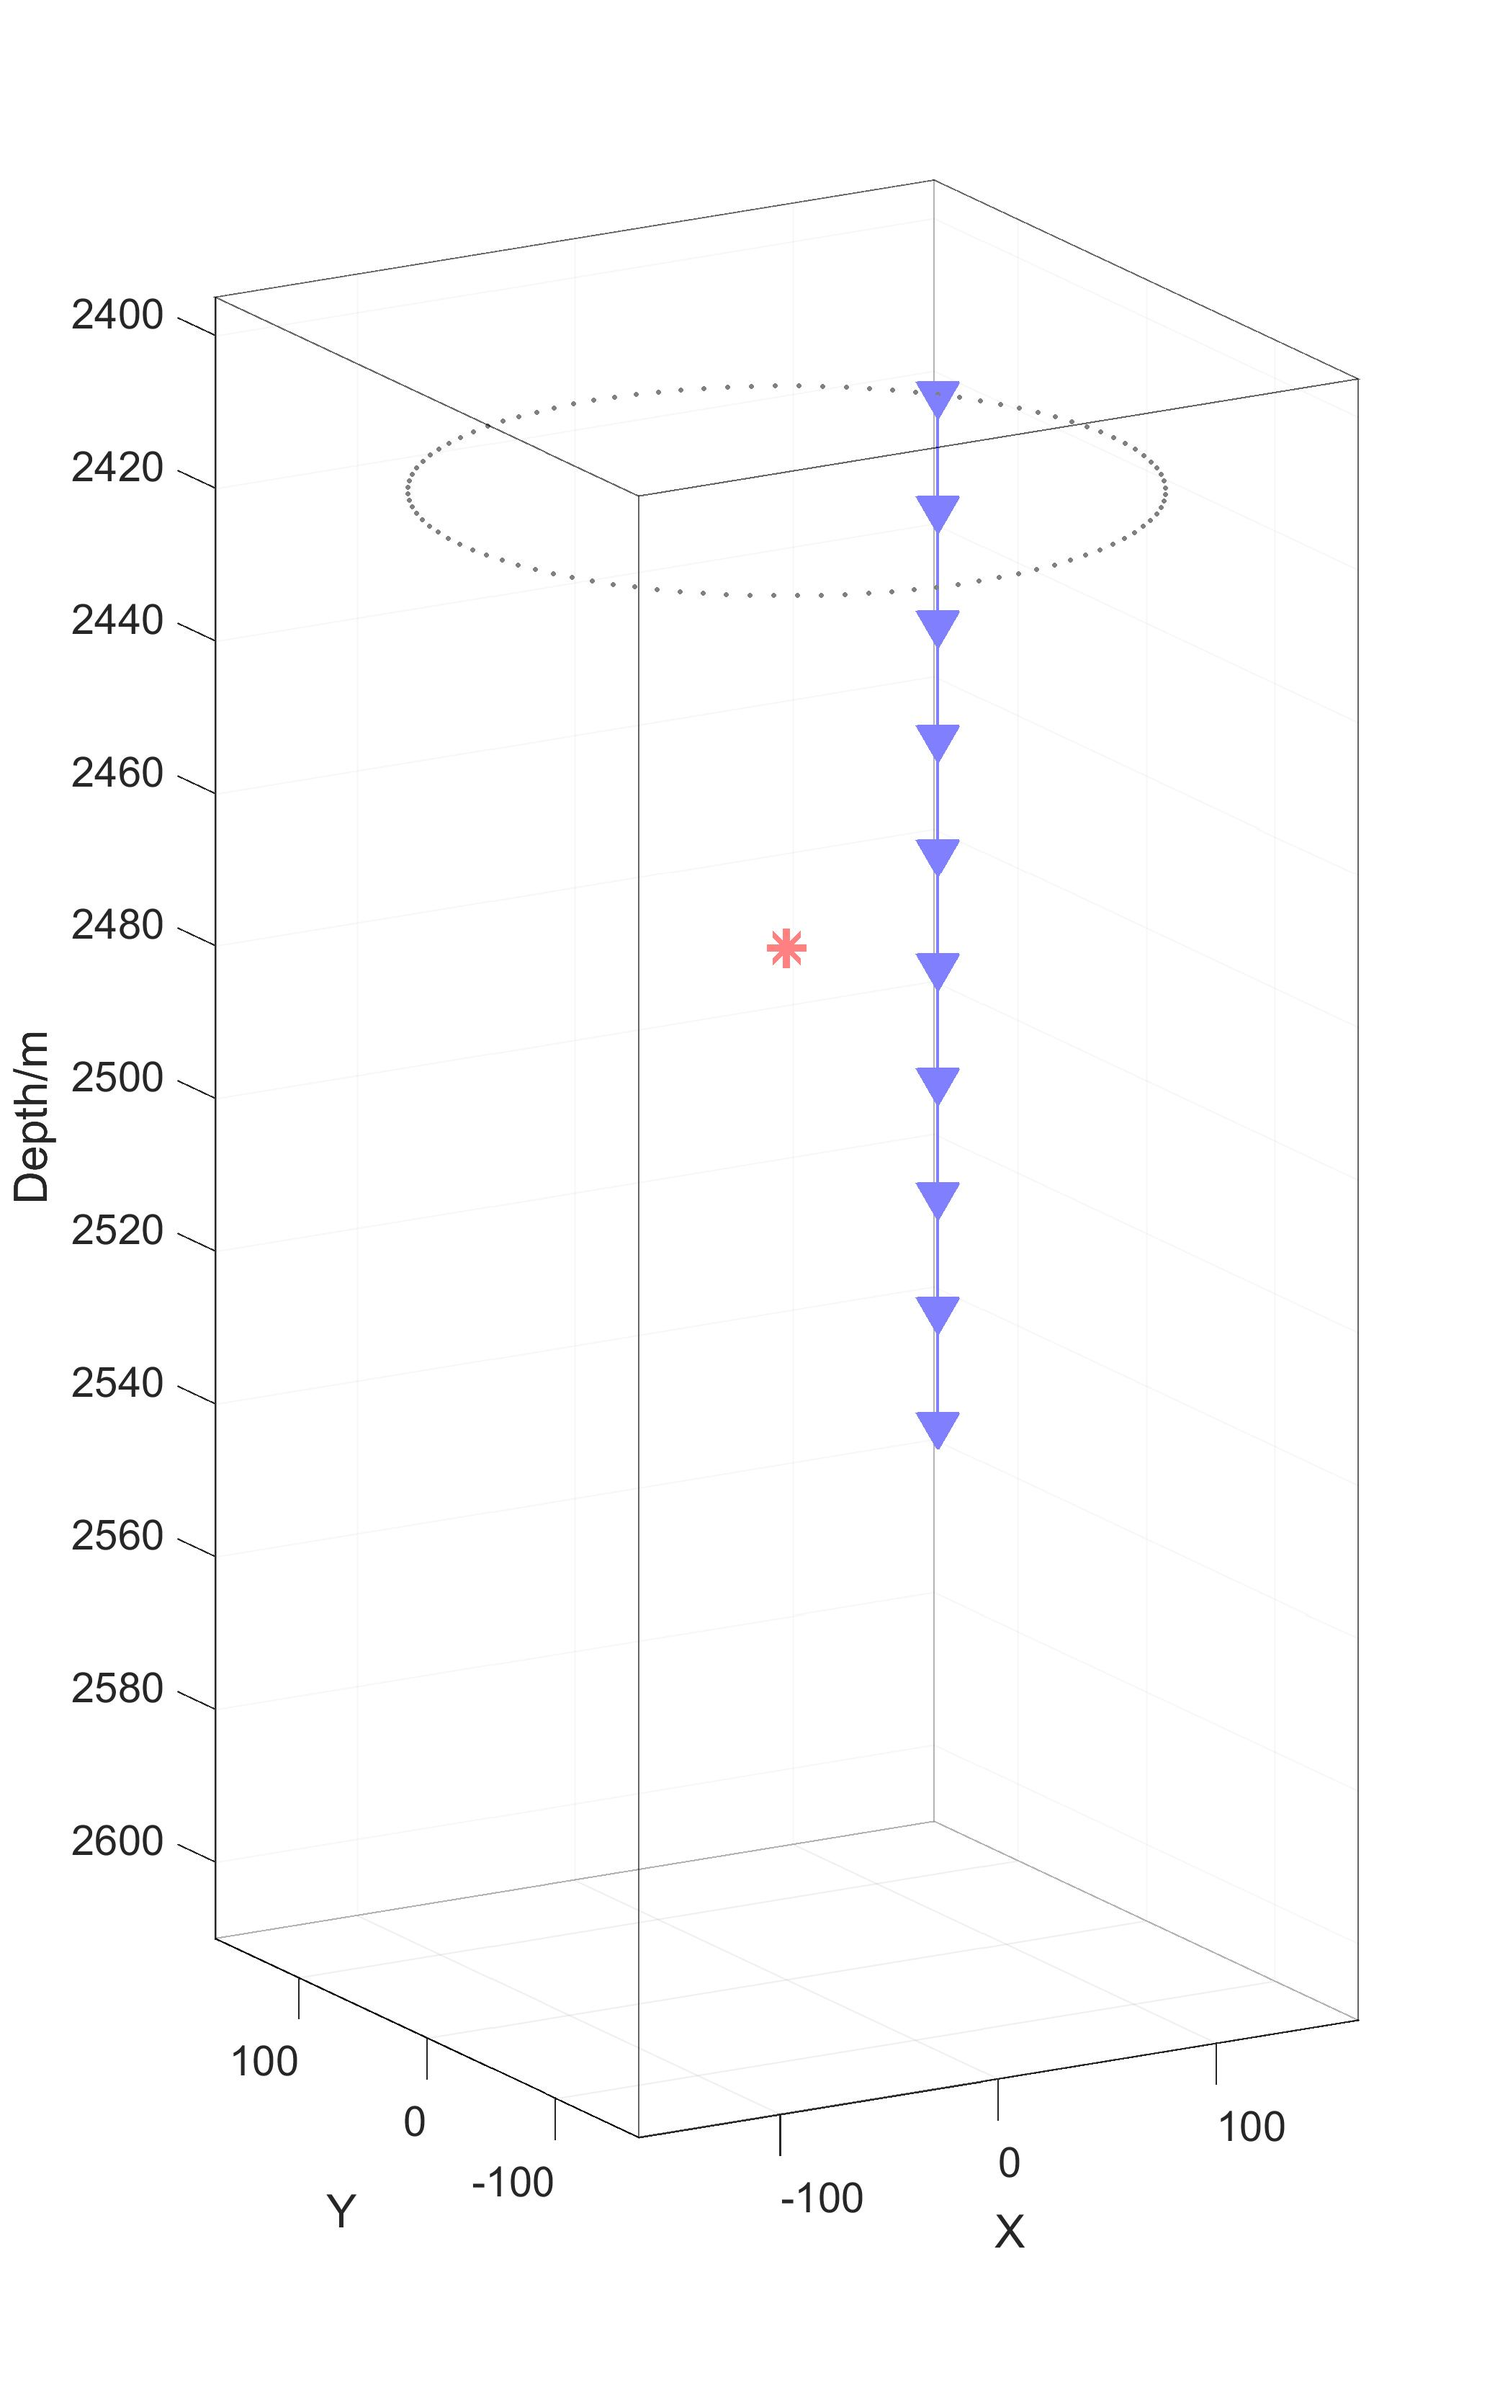
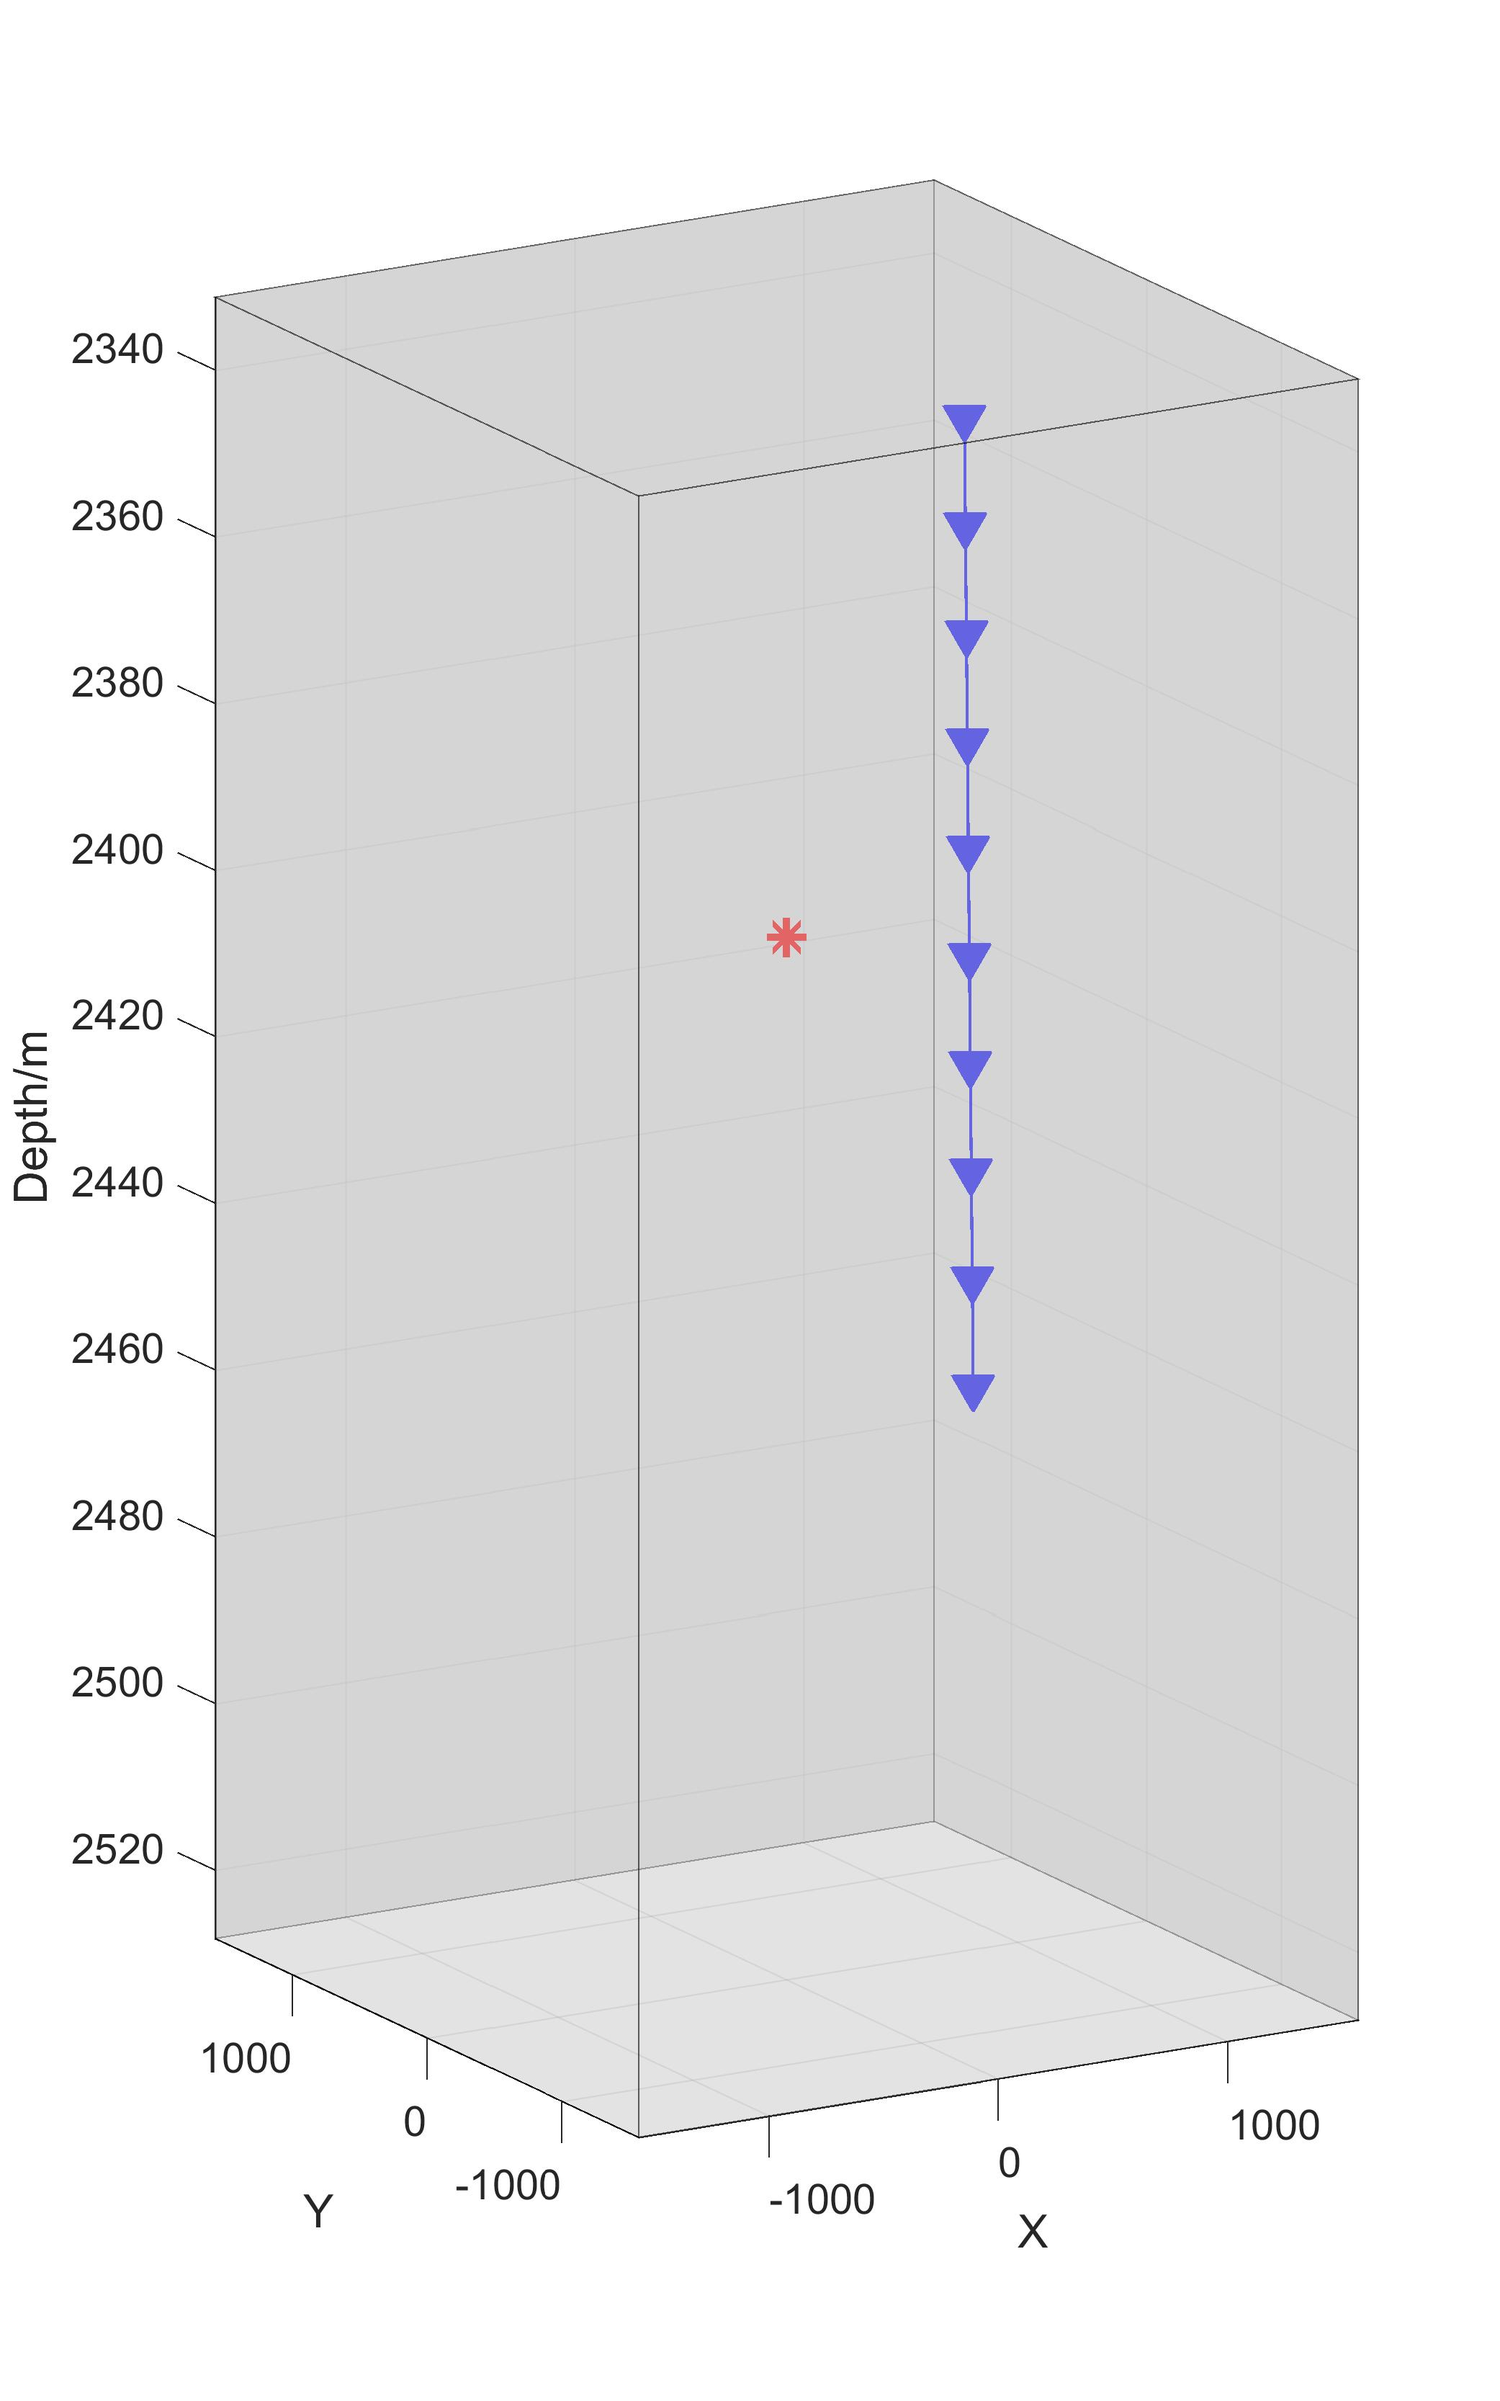
Improve the Geometry Setting Code
1. seperate the ploting code in to Plot_2DGeometry, Plot_3DGeometry and
Plot_Model functions.
2. According to the interface type, generate different model.

diff --git a/Plot_Model.m b/Plot_Model.m
@@ -1,0 +1,119 @@
+%% Plot the 3D model
+function [Layer_Z]=Plot_Model(Model_X,Model_Y,Receivers,Shot,Plane_Function)
+%% Set the Model's Sediments boundary
+% Set the model parameters 2015-6-7 %
+[Rec_Num_1Well,Com,Well_Num]=size(Receivers);
+%
+Layer_Num=1;
+Deep_Initial=Receivers(1,3,1)-20;
+Layer_Int=(Receivers(Rec_Num_1Well,3,1)-Receivers(1,3,1)+80)/Layer_Num;
+
+
+% Set the model Layer coordinates
+Layer_x=[Model_X(1);Model_X(2);Model_X(2);Model_X(1);];
+Layer_y=[Model_Y(1);Model_Y(1);Model_Y(2);Model_Y(2);];
+Layer_Z=zeros(Layer_Num+1,1);
+for i=1:Layer_Num+1
+    Layer_Z(i)=Deep_Initial+(i-1)*Layer_Int;
+end
+
+% Layer color index
+Layer_Cor_Idx=Layer_Z.^3/max(Layer_Z.^3);
+% Plot the model Layer and layer face
+figure;
+set(gcf,'Position',[100 100 800 800])
+% set(f2,'PaperPositionMode','manual','PaperUnits','centimeters','PaperPosition',[0 0 8 7]);
+hold on
+grid on
+EdgeAlpha=0.6;
+FaceAlpha=0.5;
+for i=1:Layer_Num
+    Layer_z=ones(4,1);
+    %     Plot the top face
+    Layer_z=Layer_z*Layer_Z(i);
+    
+    Layer_Color=[Layer_Cor_Idx(i),Layer_Cor_Idx(i),Layer_Cor_Idx(i)*1];
+    Top1=patch(Layer_x,Layer_y,Layer_z,Layer_Color);
+    set(Top1,'EdgeAlpha',EdgeAlpha,'FaceAlpha',FaceAlpha);
+    %     Plot the bottom face
+    Layer_z=Layer_z*Layer_Z(i+1);
+    
+    Layer_Color=[i*0.1,i*0.15,i*0.1];
+    Bot2=patch(Layer_x,Layer_y,Layer_z,Layer_Color);
+    set(Bot2,'EdgeAlpha',EdgeAlpha,'FaceAlpha',FaceAlpha);
+end
+% Set the lateral face coordinates
+Face1_x=[Model_X(1);Model_X(1);Model_X(2);Model_X(2);];
+Face1_y=[Model_Y(1);Model_Y(1);Model_Y(1);Model_Y(1);];
+
+Face2_x=[Model_X(2);Model_X(2);Model_X(2);Model_X(2);];
+Face2_y=[Model_Y(1);Model_Y(1);Model_Y(2);Model_Y(2);];
+
+Face3_x=[Model_X(1);Model_X(1);Model_X(2);Model_X(2);];
+Face3_y=[Model_Y(2);Model_Y(2);Model_Y(2);Model_Y(2);];
+
+Face4_x=[Model_X(1);Model_X(1);Model_X(1);Model_X(1);];
+Face4_y=[Model_Y(1);Model_Y(1);Model_Y(2);Model_Y(2);];
+
+% Plot the lateral face coordinates
+for i=1:Layer_Num
+    Deep(1)=Deep_Initial+(i-1)*Layer_Int;
+    Deep(2)=Deep_Initial+i*Layer_Int;
+    Face_z=[Deep(2);Deep(1);Deep(1);Deep(2);];
+    Layer_Color=[Layer_Cor_Idx(i),Layer_Cor_Idx(i),Layer_Cor_Idx(i)];
+    %     Plot the Face 1
+    h1=patch(Face1_x,Face1_y,Face_z,Layer_Color);
+    set(h1,'EdgeAlpha',EdgeAlpha,'FaceAlpha',FaceAlpha);
+    %     Plot the Face 2
+    h1=patch(Face2_x,Face2_y,Face_z,Layer_Color);
+    set(h1,'EdgeAlpha',EdgeAlpha,'FaceAlpha',FaceAlpha);
+    %     Plot the Face 3
+    h1=patch(Face3_x,Face3_y,Face_z,Layer_Color);
+    set(h1,'EdgeAlpha',EdgeAlpha,'FaceAlpha',FaceAlpha);
+    %     Plot the Face 4
+    h1=patch(Face4_x,Face4_y,Face_z,Layer_Color);
+    set(h1,'EdgeAlpha',EdgeAlpha,'FaceAlpha',FaceAlpha);
+end
+% Set the figure property
+set(gca,'ZDir','reverse','FontSize',14);
+axis([Model_X(1) Model_X(2) Model_Y(1) Model_Y(2) Layer_Z(1) Layer_Z(Layer_Num+1)]);
+grid on
+view(-30.5,8);
+xlabel('X');
+ylabel('Y');
+zlabel('Depth/m');
+
+%}
+
+% Plot the geometry 2015-5-28 %
+%
+
+% Plot the wells 2015-6-7 %
+for i=1:Well_Num
+    plot3(Receivers(:,1,i),Receivers(:,2,i),Receivers(:,3,i),'-bv',...
+        'MarkerSize',12,'Linewidth',1,'Markerfacecolor','b');
+end
+% Plot the shots plane 2015-5-28 %
+plot3(Shot(1),Shot(2),Shot(3),'r*','MarkerSize',13,'Linewidth',3);
+
+% Plot the circle of wells 2015-6-9 %
+% plot3(Circle_Line(:,1),Circle_Line(:,2),Circle_Line(:,3),'.k','Linewidth',2);
+
+% set(gca,'ZDir','reverse','Zlim',[2100,2700])
+% view(3)
+% view([45,8])
+% set(gcf,'position',[400 100 600 1000])
+set(gcf,'PaperPositionMode','manual','PaperUnits','point','PaperPosition',[400 100 500 800]);
+print('-r300','-djpeg','Model');
+
+%% Tile plane function 2015-9-14
+%  plane function parameters
+Plane_Function(4)=Shot(3)+Layer_Int/2;
+% Calculate the four vertex coordinates of tilt plane
+TiltPlane_X=[Model_X(1),Model_X(2),Model_X(2),Model_X(1)];
+TiltPlane_Y=[Model_Y(1),Model_Y(1),Model_Y(2),Model_Y(2)];
+% Calculate the four vertex coordinates of tilt plane
+TiltPlane_Z=Plane_Function(1)*TiltPlane_X+Plane_Function(2)*TiltPlane_Y+Plane_Function(4);
+h_TP=patch(TiltPlane_X,TiltPlane_Y,TiltPlane_Z,Layer_Color-0.2);
+set(h_TP,'EdgeAlpha',EdgeAlpha,'FaceAlpha',FaceAlpha);
+end

diff --git a/Plot_3DGeometry.m b/Plot_3DGeometry.m
@@ -1,0 +1,49 @@
+%% Plot the 3D geometry when using vertical observing well
+function Plot_3DGeometry(Radius,Receivers,Shot)
+% Basic figure parameters
+Fontsize=9;
+Markersize=4;
+Linewidth=1;
+%% Plot the geometry in 3D  viewer
+f2=figure;
+hold on
+% Plot the direction of geometry
+Position3D_X=zeros(1,3);
+Position3D_Y=zeros(1,3);
+Position3D_Z=ones(1,3)*Receivers(1,3,1);
+Vector3D_X=[0 Radius+Radius/3 0];
+Vector3D_Y=[Radius+Radius/3 0 0];
+Vector3D_Z=[0 0 (Radius+Radius/3)];
+quiver3(Position3D_X,Position3D_Y,Position3D_Z,...
+    Vector3D_X,Vector3D_Y,Vector3D_Z,'k','Linewidth',Linewidth-0.5)
+text(5,Radius+Radius/2.5,Position3D_Z(1),'N','FontSize',Fontsize);
+text(Radius+Radius/2.5,5,Position3D_Z(1),'E','FontSize',Fontsize);
+
+
+% text(Radius+35,5,Position3D_Z(1),'E','FontSize',Fontsize);
+% Plot the circle of wells 2015-6-9 %
+% plot3(Circle_Well(:,1),Circle_Well(:,2),Circle_Well(:,3),'.k','Linewidth',2);
+% Plot the wells 2015-6-7 %
+plot3(Receivers(:,1,1)-Radius/2,Receivers(:,2,1),Receivers(:,3,1),...
+    '-bv','MarkerSize',Markersize,'Linewidth',Linewidth-0.9,'Markerfacecolor','b');
+%{
+for i=1:Well_Num
+    plot3(Receivers(:,1,i),Receivers(:,2,i),Receivers(:,3,i),...
+        '-bv','MarkerSize',12,'Linewidth',1,'Markerfacecolor','b');
+end
+%}
+% Plot the shots plane 2015-5-28 %
+plot3(Shot(1),Shot(2),Shot(3),'r*','MarkerSize',Markersize,'Linewidth',Linewidth);
+set(gca,'zdir','reverse');
+% title('b','FontSize',Fontsize);
+% axis square
+axis off
+text(Radius/10,0,Shot(3)+Radius/0.9,'(b)','FontSize',Fontsize);
+view(140,30)
+% view(3)
+% Save the figure 2015-6-23 %
+% set(f2,'PaperPositionMode','manual','PaperUnits','point','PaperPosition',[100 100 1000 500]);
+set(f2,'PaperPositionMode','manual','PaperUnits','centimeters','PaperPosition',[0 0 12 9]);
+print(f2,'-r300','-dtiff','Geometry-3D-3 Well');
+%}
+end

diff --git a/Plot_2DGeometry.m b/Plot_2DGeometry.m
@@ -1,0 +1,46 @@
+%% Plot the 2D geometry when using vertical observing well
+function Plot_2DGeometry(Well_Num,Radius,Circle_Line,Receivers,Shot)
+% Basic figure parameters
+Fontsize=9;
+Markersize=4;
+Linewidth=1;
+
+%% Plot the geometry in 2D  viewer
+f1=figure;
+hold on
+% Plot the direction of geometry
+Position_X=zeros(1,2);
+Position_Y=zeros(1,2);
+Vector_X=[0 Radius+Radius/3];
+Vector_Y=[Radius+Radius/3 0];
+quiver(Position_X,Position_Y,Vector_X,Vector_Y,'k','Linewidth',Linewidth-0.5)
+text(Radius/12,Radius+Radius/3,'N','FontSize',Fontsize);
+text(Radius+Radius/4,-Radius/12,'E','FontSize',Fontsize);
+% Plot the circle of wells 2015-6-9 %
+plot(Circle_Line(:,1),Circle_Line(:,2),'.k','Linewidth',Linewidth);
+% Plot the wells 2015-6-29 %
+for i=1:Well_Num
+    plot(Receivers(1,1,i),Receivers(1,2,i),'ob',...
+        'MarkerSize',Markersize,'Linewidth',Linewidth,'Markerfacecolor','b')
+    Borehole=['B',num2str(i)];
+    text(Receivers(1,1,i)+10,Receivers(1,2,i)+20,Borehole,'FontSize',Fontsize);
+end
+%{
+plot(Receivers(1,1,1),Receivers(1,2,1),'ob',...
+    'MarkerSize',10,'Linewidth',1,'Markerfacecolor','b')
+text(Receivers(1,1,1)+10,Receivers(1,2,1)+5,'B1','FontSize',Fontsize);
+
+plot(Receivers(1,1,2),Receivers(1,2,2),...
+    'ob','MarkerSize',10,'Linewidth',1,'Markerfacecolor','b')
+text(Receivers(1,1,2)+10,Receivers(1,2,2)+5,'B2','FontSize',Fontsize);
+%}
+% Plot the shots plane 2015-5-28 %
+plot(Shot(1),Shot(2),'r*','MarkerSize',Markersize,'Linewidth',Linewidth);
+% title('a','FontSize',Fontsize);
+axis square
+axis off
+text(-Radius/10,-Radius-Radius/8,'(a)','FontSize',Fontsize);
+set(f1,'PaperPositionMode','manual','PaperUnits','centimeters','PaperPosition',[0 0 8 8]);
+print(f1,'-r300','-dtiff','Geometry-2D-3 Well');
+
+end
